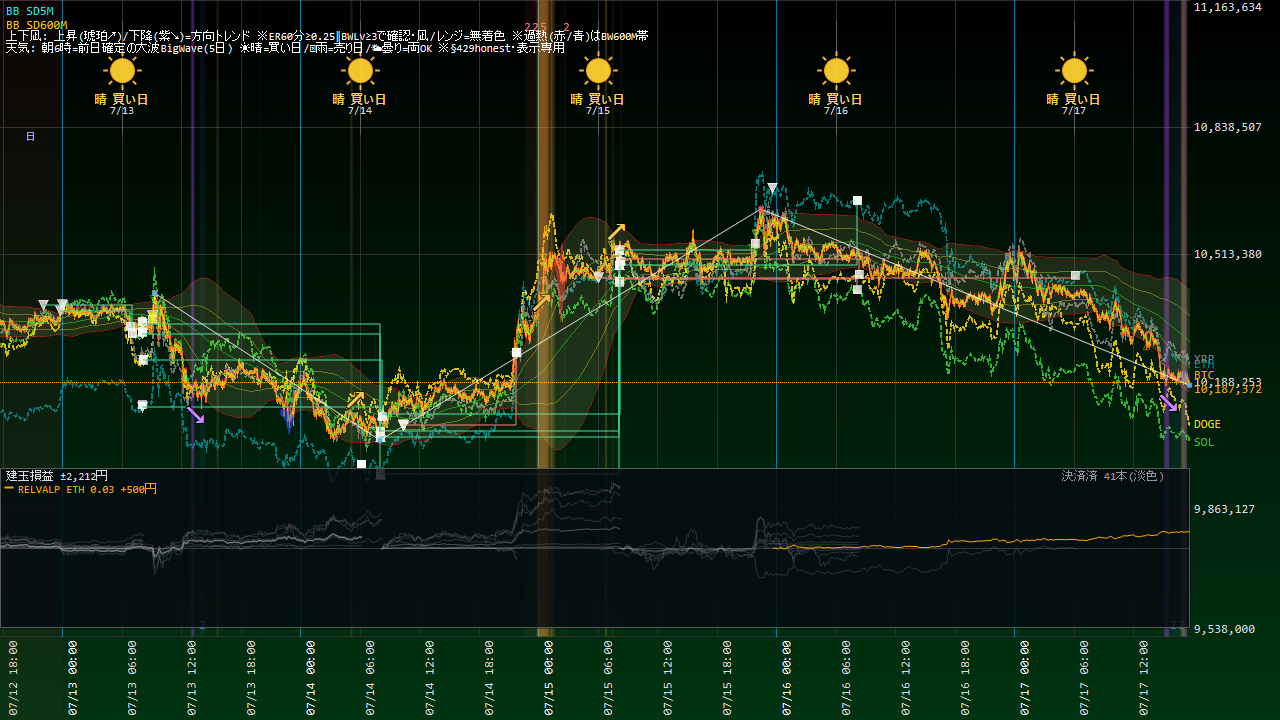
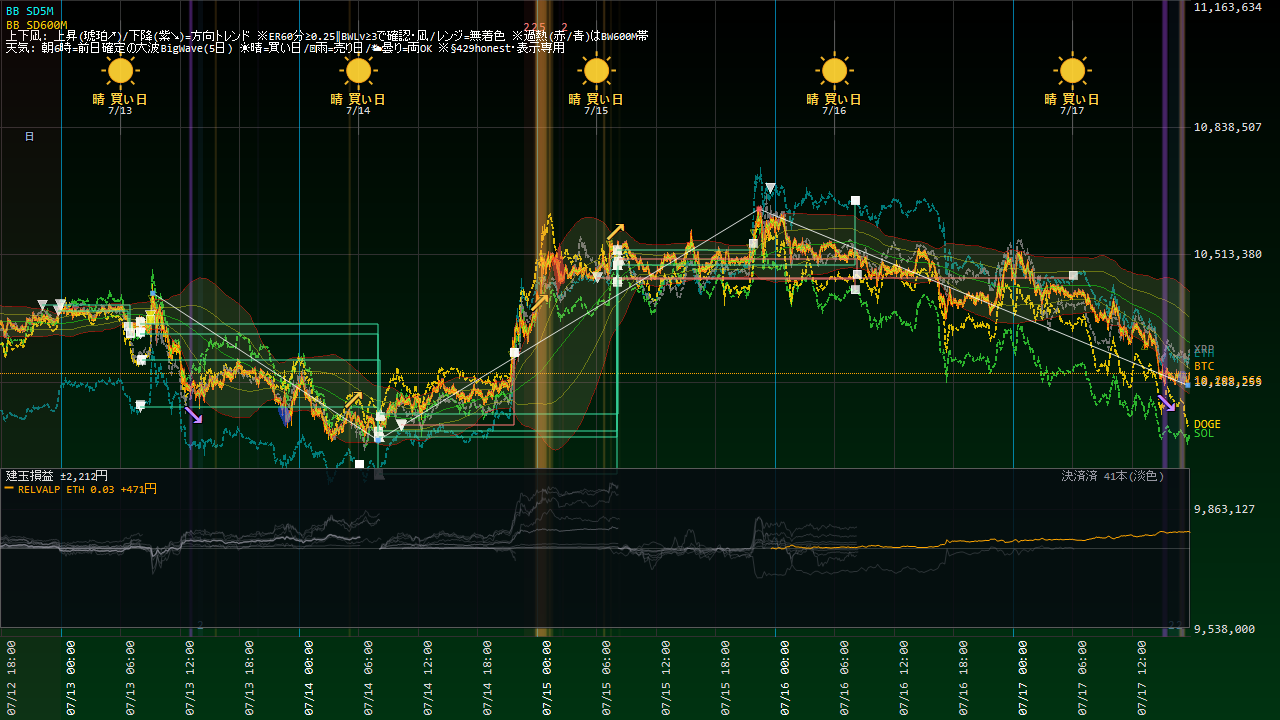
Coin100S 運用状況更新 07-17 17:54

diff --git a/coin100s-795hc4jfv8/index.html b/coin100s-795hc4jfv8/index.html
@@ -14,16 +14,16 @@ a{color:#60a5fa;text-decoration:none} a:hover{text-decoration:underline}
 .meta{color:#94a3b8;font-size:13px}</style>
 <script>setTimeout(function(){location.replace(location.pathname+"?t="+Date.now());},300000);</script></head><body>
 <h1>Coin100S ダッシュボード</h1>
-<p class="meta">スナップショット: 2026-07-17 17:42:39(自動リロード・最新化)</p>
+<p class="meta">スナップショット: 2026-07-17 17:54:48(自動リロード・最新化)</p>
 <div class="cards">
 <div class="card">建玉数<div class="v">1</div></div>
 <div class="card">本日損益<div class="v neg">-22円</div></div>
-<div class="card">評価損益<div class="v pos">+506円</div></div>
+<div class="card">評価損益<div class="v pos">+472円</div></div>
 </div>
 <h2>現在の建玉</h2>
-<table><tr><th>銘柄</th><th>側</th><th>数量</th><th>建値</th><th>含損益</th><th>レッグ</th></tr><tr><td>ETH_JPY</td><td>SELL</td><td>0.03</td><td>@313,051</td><td>+506円</td><td>RELVALP_SL700</td></tr></table>
+<table><tr><th>銘柄</th><th>側</th><th>数量</th><th>建値</th><th>含損益</th><th>レッグ</th></tr><tr><td>ETH_JPY</td><td>SELL</td><td>0.03</td><td>@313,051</td><td>+472円</td><td>RELVALP_SL700</td></tr></table>
 <p><a href="status.html"><b>▶ 運用状況の詳細(チャート・本日の取引・レジーム)</b></a></p>
 <h2>日報一覧</h2>
 <table><tr><th>取引日</th><th>実現損益</th><th>総括</th></tr><tr><td><a href='reports/20260716_Coin100S日報.html'>2026-07-16</a></td><td class="pos">+0円</td><td class='meta'>実取引: 新規0件/決済5件、実現損益 +0円。⚠警告/エラー 7件（要確認）。</td></tr><tr><td><a href='reports/20260715_Coin100S日報.html'>2026-07-15</a></td><td class="pos">+0円</td><td class='meta'>実取引: 新規6件/決済5件、実現損益 +0円。シグナル却下6件（最多: BW10M3_5M／トレンド方向ゲート(N分傾き上と不一致=逆張り方向のfade禁止)）。⚠警告/エラー 7件（要確認）。</td></tr><tr><td><a href='reports/20260714_Coin100S日報.html'>2026-07-14</a></td><td class="pos">+0円</td><td class='meta'>実取引: 新規6件/決済18件、実現損益 +0円。シグナル却下5件（最多: BW10M3_5M／トレンド方向ゲート(N分傾き上と不一致=逆張り方向のfade禁止)）。⚠警告/エラー 9件（要確認）。</td></tr><tr><td><a href='reports/20260713_Coin100S日報.html'>2026-07-13</a></td><td class="pos">+0円</td><td class='meta'>実取引: 新規5件/決済8件、実現損益 +0円。シグナル却下1件（最多: BW10M3_5M／トレンド方向ゲート(N分傾き上と不一致=逆張り方向のfade禁止)）。警告/孤児/エラーなし＝健全。</td></tr><tr><td><a href='reports/20260712_Coin100S日報.html'>2026-07-12</a></td><td class="pos">+0円</td><td class='meta'>実取引: 新規14件/決済6件、実現損益 +0円。シグナル却下5件（最多: BW10M3_5M／トレンド方向ゲート(N分傾き下と不一致=逆張り方向のfade禁止)）。⚠警告/エラー 2件（要確認）。</td></tr><tr><td><a href='reports/20260711_Coin100S日報.html'>2026-07-11</a></td><td class="pos">+0円</td><td class='meta'>実取引: 新規7件/決済6件、実現損益 +0円。⚠警告/エラー 52件（要確認）。</td></tr><tr><td><a href='reports/20260710_Coin100S日報.html'>2026-07-10</a></td><td class="pos">+0円</td><td class='meta'>実取引: 新規7件/決済6件、実現損益 +0円。シグナル却下6件（最多: BW10M3_5M／トレンド方向ゲート(N分傾き上と不一致=逆張り方向のfade禁止)）。警告/孤児/エラーなし＝健全。</td></tr><tr><td><a href='reports/20260709_Coin100S日報.html'>2026-07-09</a></td><td class="pos">+0円</td><td class='meta'>実取引: 新規8件/決済3件、実現損益 +0円。シグナル却下5件（最多: SD120M_5M／トレンド方向ゲート(N分傾き上と不一致=逆張り方向のfade禁止)）。警告/孤児/エラーなし＝健全。</td></tr><tr><td><a href='reports/20260708_Coin100S日報.html'>2026-07-08</a></td><td class="pos">+0円</td><td class='meta'>実取引: 新規2件/決済4件、実現損益 +0円。シグナル却下4件（最多: SD120M_5M／トレンド方向ゲート(N分傾き下と不一致=逆張り方向のfade禁止)）。警告/孤児/エラーなし＝健全。</td></tr><tr><td><a href='reports/20260707_Coin100S日報.html'>2026-07-07</a></td><td class="pos">+0円</td><td class='meta'>実取引: 新規8件/決済6件、実現損益 +0円。シグナル却下4件（最多: SD120M_5M／トレンド方向ゲート(N分傾き上と不一致=逆張り方向のfade禁止)）。⚠警告/エラー 258件（要確認）。</td></tr><tr><td><a href='reports/20260706_Coin100S日報.html'>2026-07-06</a></td><td class="pos">+0円</td><td class='meta'>実取引: 新規9件/決済6件、実現損益 +0円。シグナル却下9件（最多: SD120M_5M／トレンド方向ゲート(N分傾き上と不一致=逆張り方向のfade禁止)）。⚠警告/エラー 150件（要確認）。</td></tr><tr><td><a href='reports/20260705_Coin100S日報.html'>2026-07-05</a></td><td class="pos">+0円</td><td class='meta'>実取引: 新規8件/決済3件、実現損益 +0円。⚠警告/エラー 2件（要確認）。</td></tr><tr><td><a href='reports/20260704_Coin100S日報.html'>2026-07-04</a></td><td class="pos">+0円</td><td class='meta'>実取引: 新規1件/決済2件、実現損益 +0円。⚠警告/エラー 2件（要確認）。</td></tr><tr><td><a href='reports/20260703_Coin100S日報.html'>2026-07-03</a></td><td class="pos">+0円</td><td class='meta'>実取引: 新規5件/決済4件、実現損益 +0円。⚠警告/エラー 15件（要確認）。</td></tr><tr><td><a href='reports/20260702_Coin100S日報.html'>2026-07-02</a></td><td class="pos">+0円</td><td class='meta'>実取引: 新規7件/決済5件、実現損益 +0円。シグナル却下17件（最多: SD120M_5M／トレンド方向ゲート(N分傾き上と不一致=逆張り方向のfade禁止)）。⚠警告/エラー 26件（要確認）。</td></tr><tr><td><a href='reports/20260701_Coin100S日報.html'>2026-07-01</a></td><td class="pos">+0円</td><td class='meta'>実取引: 新規14件/決済8件、実現損益 +0円。シグナル却下14件（最多: SD120M_5M／ボラ軸ゲート(SDN%&amp;gt;N%=高ボラ/荒れレンジ)）。⚠警告/エラー 2件（要確認）。</td></tr><tr><td><a href='reports/20260630_Coin100S日報.html'>2026-06-30</a></td><td class="pos">+0円</td><td class='meta'>実取引: 新規0件/決済1件、実現損益 +0円。シグナル却下29件（最多: 微5M／当日枠N）。警告/孤児/エラーなし＝健全。</td></tr></table>
-<hr><p class="meta">更新: 2026-07-17 17:43:05 / 自動生成: tools/web_publish.py(§580)</p>
+<hr><p class="meta">更新: 2026-07-17 17:54:56 / 自動生成: tools/web_publish.py(§580)</p>
 </body></html>

diff --git a/coin100s-795hc4jfv8/status.html b/coin100s-795hc4jfv8/status.html
@@ -14,22 +14,22 @@ a{color:#60a5fa;text-decoration:none} a:hover{text-decoration:underline}
 .meta{color:#94a3b8;font-size:13px}</style>
 <script>setTimeout(function(){location.replace(location.pathname+"?t="+Date.now());},300000);</script></head><body>
 <h1>Coin100S 運用状況</h1>
-<p class="meta">スナップショット: 2026-07-17 17:36:11 / ページ生成: 2026-07-17 17:43:04(自動リロード・最新化) / <a href="index.html">目次へ</a></p>
+<p class="meta">スナップショット: 2026-07-17 17:51:03 / ページ生成: 2026-07-17 17:54:54(自動リロード・最新化) / <a href="index.html">目次へ</a></p>
 <div class="cards">
 <div class="card">建玉数<div class="v">1</div></div>
 <div class="card">本日損益<div class="v neg">-22円</div></div>
-<div class="card">評価損益<div class="v pos">+498円</div></div>
+<div class="card">評価損益<div class="v pos">+467円</div></div>
 </div>
 <h2>資産推移(直近30日)</h2>
-<img src="status_equity.png?t=1743" alt="equity">
+<img src="status_equity.png?t=1754" alt="equity">
 <h2>取引チャート(直近24h)</h2>
-<img src="status_chart.png?t=1743" alt="chart">
+<img src="status_chart.png?t=1754" alt="chart">
 <h2>建玉一覧</h2>
-<table><tr><th>銘柄</th><th>側</th><th>数量</th><th>建値</th><th>含損益</th><th>レッグ</th></tr><tr><td>ETH_JPY</td><td>SELL</td><td>0.03</td><td>@313,051</td><td>+498円</td><td>RELVALP_SL700</td></tr></table>
+<table><tr><th>銘柄</th><th>側</th><th>数量</th><th>建値</th><th>含損益</th><th>レッグ</th></tr><tr><td>ETH_JPY</td><td>SELL</td><td>0.03</td><td>@313,051</td><td>+471円</td><td>RELVALP_SL700</td></tr></table>
 <h2>実現決済履歴(直近15件・OrderId単位)</h2>
 <table><tr><th>決済時刻</th><th>レッグ</th><th>銘柄</th><th>実現損益</th></tr><tr><td>07-17 06:08</td><td>RELVALP_SELL</td><td>ETH</td><td class="neg">-22円</td></tr><tr><td>07-16 08:21</td><td>TENKI5D_REV_DOGE</td><td>DOGE</td><td class="neg">-125円</td></tr><tr><td>07-16 08:12</td><td>TENKI5D_REV_ETH</td><td>ETH</td><td class="pos">+740円</td></tr><tr><td>07-16 08:12</td><td>TENKI5D_REV_ETH</td><td>ETH</td><td class="pos">+555円</td></tr><tr><td>07-16 08:12</td><td>TENKI5D_REV_SOL</td><td>SOL</td><td class="neg">-193円</td></tr><tr><td>07-15 21:51</td><td>TENKI5D_REV_BTC</td><td>BTC</td><td class="pos">+94円</td></tr><tr><td>07-15 08:18</td><td>TENKI5D_REV_DOGE</td><td>DOGE</td><td class="pos">+858円</td></tr><tr><td>07-15 08:09</td><td>TENKI5D_REV_ETH</td><td>ETH</td><td class="pos">+601円</td></tr><tr><td>07-15 08:09</td><td>TENKI5D_REV_ETH</td><td>ETH</td><td class="pos">+2,402円</td></tr><tr><td>07-15 08:09</td><td>TENKI5D_REV_SOL</td><td>SOL</td><td class="pos">+1,812円</td></tr><tr><td>07-15 08:09</td><td>TENKI5D_REV_BTC</td><td>BTC</td><td class="pos">+1,850円</td></tr><tr><td>07-14 21:47</td><td>SIGFADE_ETH</td><td>ETH</td><td class="neg">-350円</td></tr><tr><td>07-14 21:47</td><td>SIGFADE_ETH</td><td>ETH</td><td class="neg">-141円</td></tr><tr><td>07-14 08:15</td><td>TENKI5D_REV_DOGE</td><td>DOGE</td><td class="pos">+267円</td></tr><tr><td>07-14 08:06</td><td>TENKI5D_REV_SOL</td><td>SOL</td><td class="pos">+1,011円</td></tr></table>
 <!-- §799c 「本取引日の実取引(6:00起点)」テーブルは公開ページから削除(ユーザー指示2026-07-15・数量/指値まで晒す情報漏れ)。建玉/実現損益は許可・実発注の生取引明細は非公開 -->
 <h2>現在レジーム(3軸・§570c)</h2>
-<ul><li>アルト対BTC 5日: <b>-76bps</b>(アルト劣後=RELVAL順風)</li><li>BTC ER240m: <b>0.124</b>(閾値0.25→レンジ(fade順風/BWTRD逆風))</li><li>BTC実現ボラ240m: <b>4.40</b> bps/分</li></ul>
+<ul><li>アルト対BTC 5日: <b>-76bps</b>(アルト劣後=RELVAL順風)</li><li>BTC ER240m: <b>0.122</b>(閾値0.25→レンジ(fade順風/BWTRD逆風))</li><li>BTC実現ボラ240m: <b>4.30</b> bps/分</li></ul>
 <hr><p class="meta">自動生成: tools/web_publish.py(§580・読み取り専用)。売買判断はアプリ本体。</p>
 </body></html>
